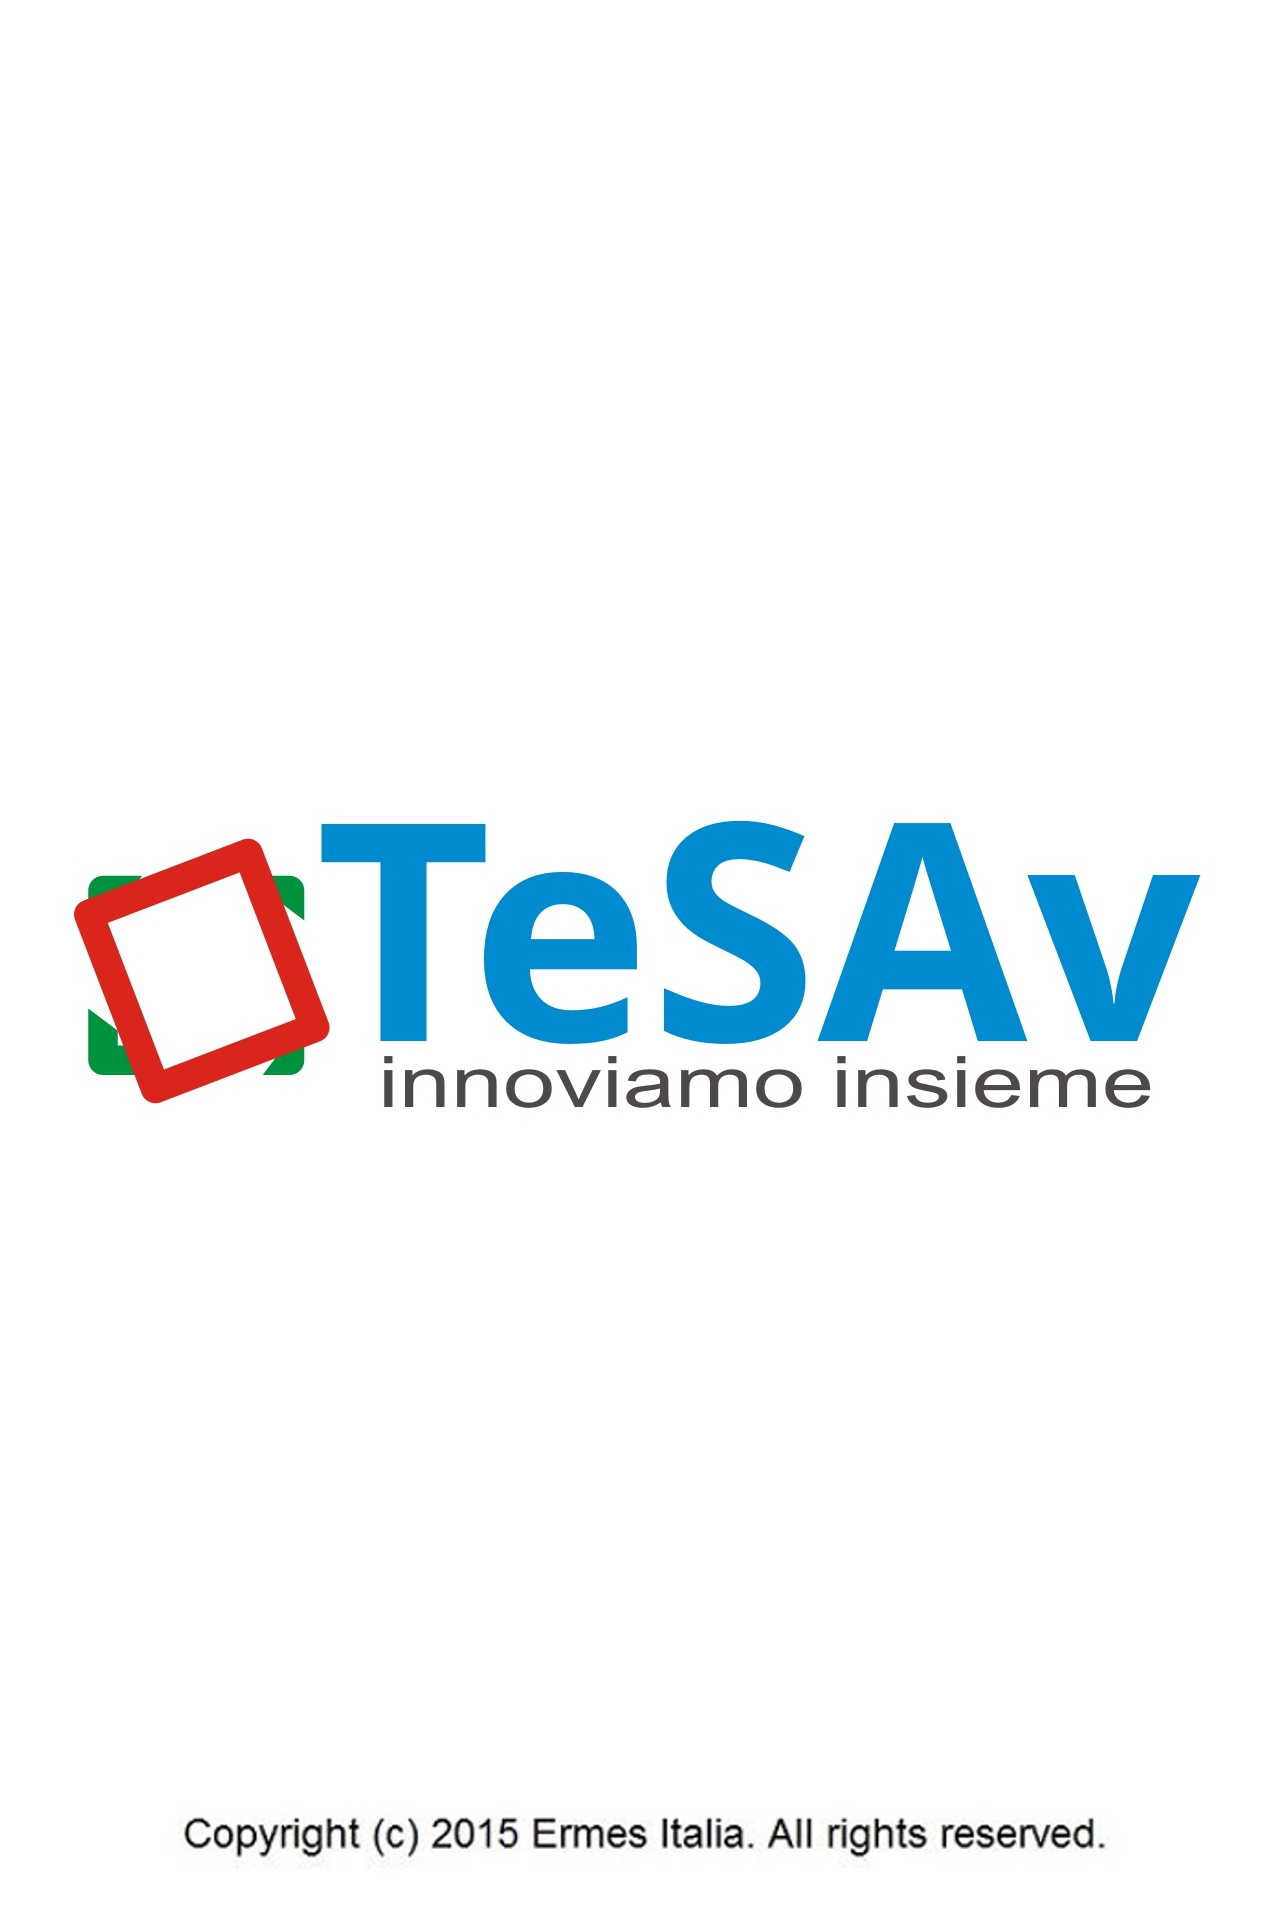
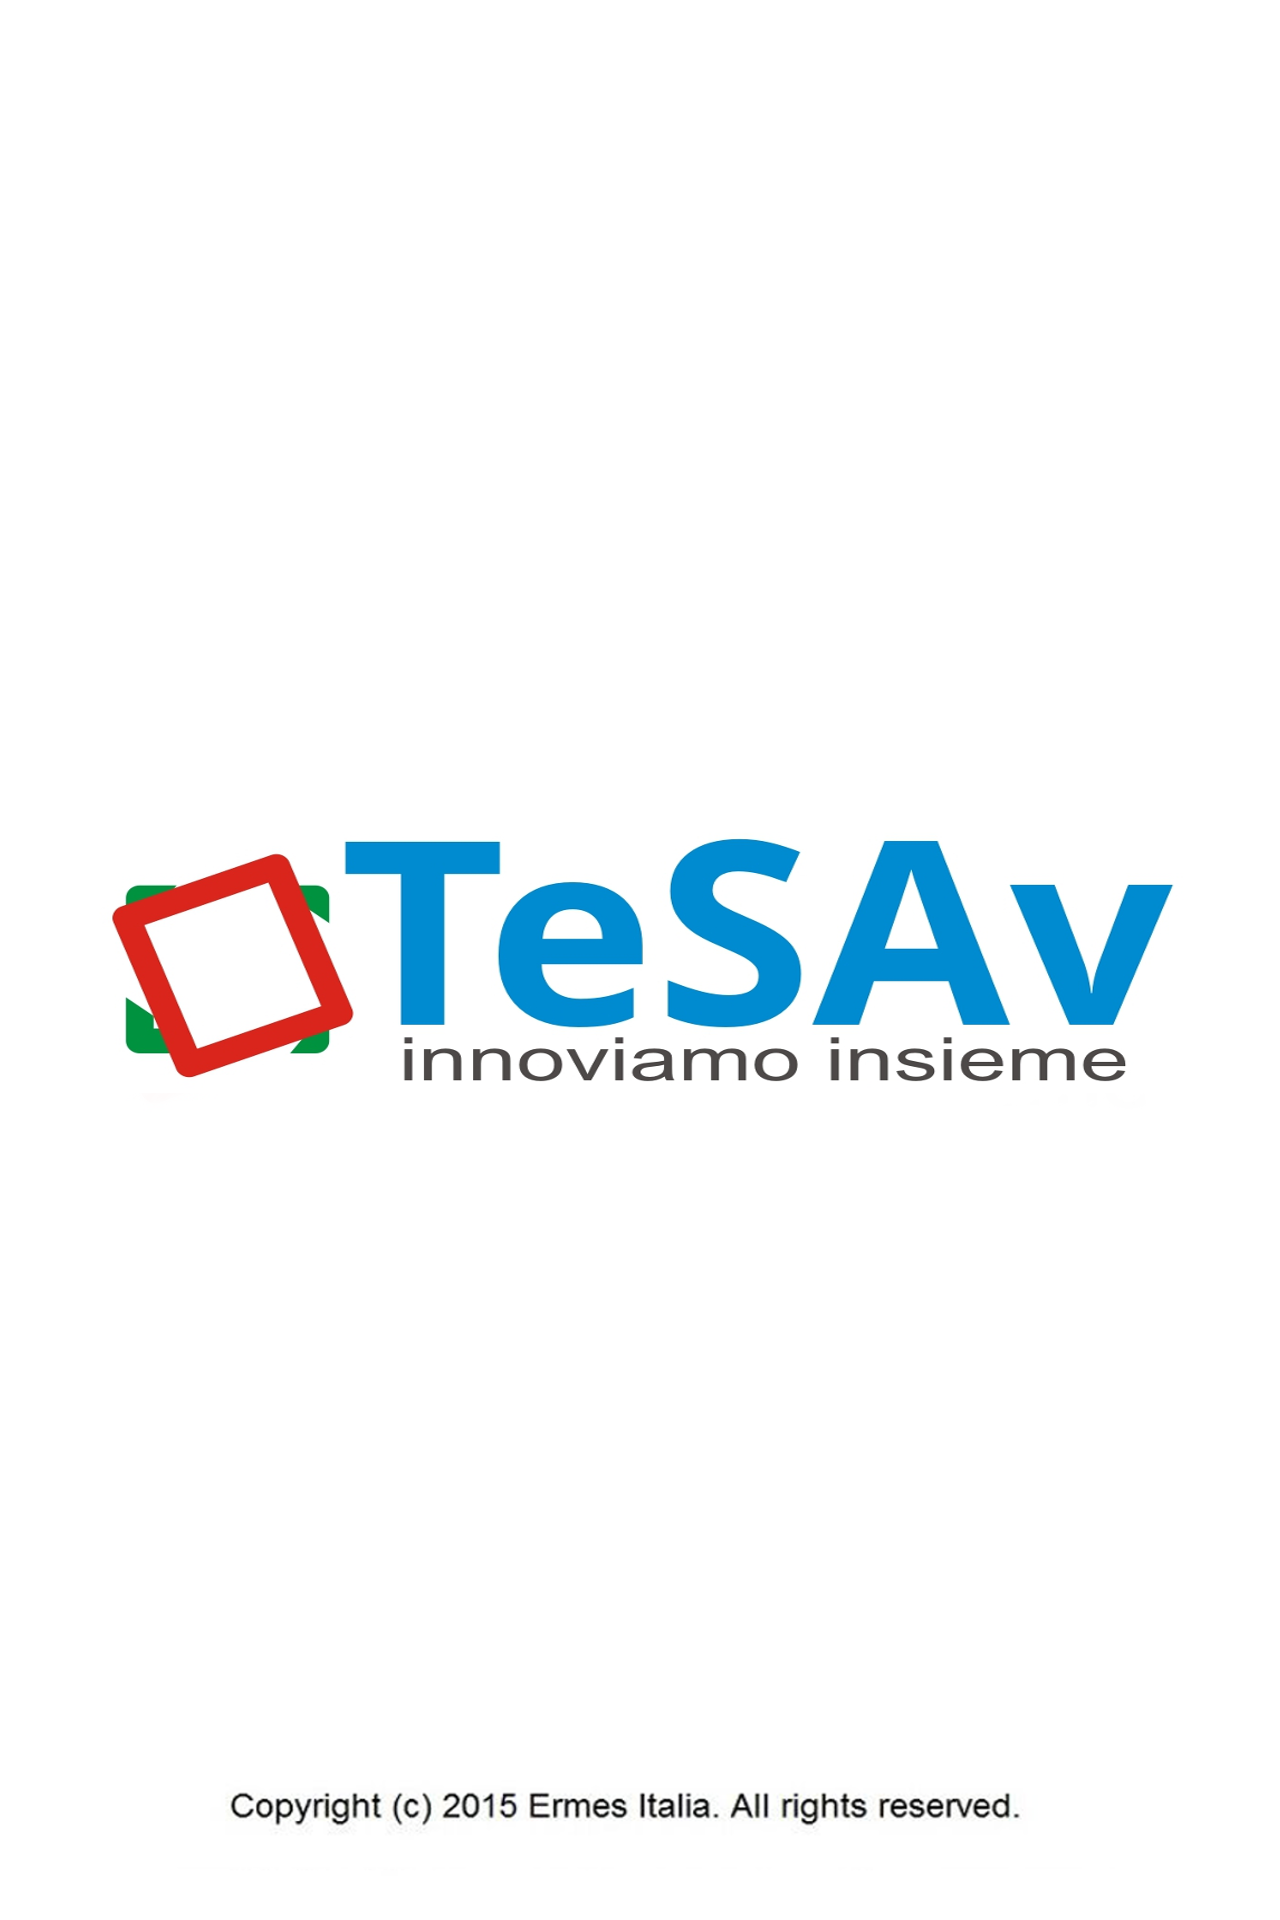
new img
new img

Changed region(s): [[0.0625, 0.4062, 0.9375, 0.5938], [0.125, 0.9375, 0.875, 0.9688]]

diff --git a/www/test.html b/www/test.html
@@ -1,0 +1,156 @@
+<html>
+	<head>
+		<meta property="og:locale" content="en_US" />
+		<meta http-equiv="Content-Type" content="text/html; charset=UTF-8">
+			
+			<meta name="viewport" content="width=device-width, initial-scale=1.0, user-scalable=no, minimum-scale=1.0, maximum-scale=3.0">
+				
+
+						<style type="text/css">
+							img { -webkit-transform:translate3d(0,0,0) }
+							div { -webkit-transform:translate3d(0,0,0) }
+							
+							.visione {
+								font-size:14px;
+								text-decoration: none;
+								text-shadow:0 0 0;
+								color: #000;
+							}
+						
+						.visioneIPAD {
+							font-size:24px;
+							text-decoration: none;
+							text-shadow:0 0 0;
+							color: #000;
+						}
+						
+						.visioneIPAD0 {
+							font-size:16px;
+							text-decoration: none;
+							text-shadow:0 0 0;
+							color: #000;
+						}
+          
+                        .visioneDROID0 {
+							font-size:11px;
+							text-decoration: none;
+							text-shadow:0 0 0;
+							color: #000;
+						}
+						
+						.visione2 {
+							font-size:12px;
+							text-decoration: none;
+							text-shadow:0 0 0;
+							color: #042e72;
+						}
+          
+                       .visioneDROID {
+							font-size:14px;
+							text-decoration: none;
+							text-shadow:0 0 0;
+							color: #000;
+						}
+						
+						.visione2IPAD {
+							font-size:24px;
+							text-decoration: none;
+							text-shadow:0 0 0;
+							color: #042e72;
+						}
+          
+          			    .visione2DROID {
+							font-size:16px;
+							text-decoration: none;
+							text-shadow:0 0 0;
+							color: #042e72;
+						}
+						
+						.visione3 {
+							font-size:15px;
+							text-decoration: none;
+							text-shadow:0 0 0;
+							color: #042e72;
+						}
+						.visione3IPAD {
+							font-size:30px;
+							text-decoration: none;
+							text-shadow:0 0 0;
+							color: #042e72;
+						}
+          
+                        .visione3DROID {
+							font-size:16px;
+							text-decoration: none;
+							text-shadow:0 0 0;
+							color: #042e72;
+						}
+						
+						.visione3aDROID {
+							font-size:24px;
+							text-decoration: none;
+							text-shadow:0 0 0;
+							color: #042e72;
+						}
+          
+						.visione4 {
+							font-size:15px;
+							text-decoration: none;
+							text-shadow:0 0 0;
+							color: #DC143C;
+						}
+						.visione4IPAD {
+							font-size:30px;
+							text-decoration: none;
+							text-shadow:0 0 0;
+							color: #DC143C;
+						}
+          
+                        .visione4DROID {
+							font-size:14px;
+							text-decoration: none;
+							text-shadow:0 0 0;
+							color: #DC143C;
+						}
+
+						</style>
+	</head>
+	<body>
+
+<table width="320" height="460" border="1"><tr><td>
+
+<table id="phone" align="center" border="0" width="97%" height="90%">
+					<tr>
+						<td align="right" width="55%" valign="middle">
+							<img id="copertina" src="img/Immagine.png" width="100%"></div>
+						</td>
+						<td align="center" width="45%" valign="center">
+				<table align="center">
+					<tr>
+						<td align="center">
+							<div id="Nome" class="visione3aDROID"><b>TeSAv</b></div>
+						</td>
+					</tr>
+					<tr>
+						<td align="center">&nbsp;
+							
+						</td>
+					</tr>
+					<tr>
+						<td align="center">
+							
+						</td>
+					</tr>
+					<tr>
+						<td align="center">
+							<div id="titolo" class="visione4DROID"><b>Tecnologie e Servizi Avanzati</b></div>
+						</td>
+					</tr>
+				</table>
+			</td>
+			</tr>
+			
+			</td></tr></table>
+			
+</body>
+</html>

diff --git a/www/index.html b/www/index.html
@@ -1356,7 +1356,7 @@
 						}
 						
 						.visione3aDROID {
-							font-size:22px;
+							font-size:24px;
 							text-decoration: none;
 							text-shadow:0 0 0;
 							color: #042e72;
@@ -1376,7 +1376,7 @@
 						}
           
                         .visione4DROID {
-							font-size:18px;
+							font-size:14px;
 							text-decoration: none;
 							text-shadow:0 0 0;
 							color: #DC143C;
@@ -1442,10 +1442,10 @@
 					</table>
 				<table id="phone" align="center" border="0" width="97%" height="90%">
 					<tr>
-						<td align="right" width="40%" valign="top">
-							<img id="copertina" src="img/Immagine.png" height="56%"></div>
+						<td align="right" width="55%" valign="middle">
+							<img id="copertina" src="img/Immagine.png" width="100%"></div>
 						</td>
-						<td align="center" width="60%" valign="center">
+						<td align="center" width="45%" valign="center">
 				<table align="center">
 					<tr>
 						<td align="center">
